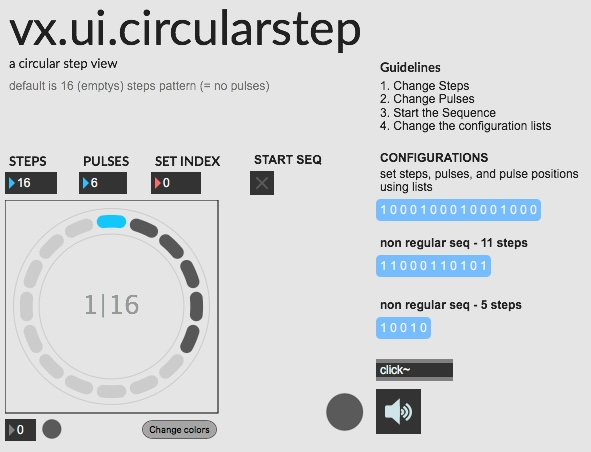
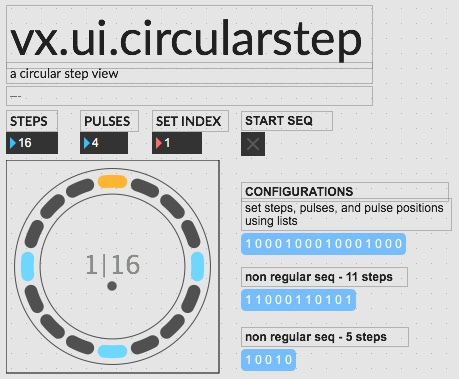
multiple fixes
[js]
- fix init (calling outlet before initialisation complete)
- fix index for steps
- remove debug info
[patcher]
- fix counter error (ensure 1 based index for everybody)
- minor errors fix
[screen]
- update

diff --git a/vx.ui.circularstep.js b/vx.ui.circularstep.js
@@ -314,7 +314,7 @@ p5.init();
 
 function setup () 
 {
-	setsteps(16);
+	steps(16);
 }
 
 function modulofix (x, m) {
@@ -444,6 +444,7 @@ function update_data(numsteps) {
 
 function getactivations()
 {
+	// post("send activations\n");
 	outlet(0, ['activations'].concat(activations));
 }
 
@@ -466,6 +467,7 @@ function getpulses ()
 {
 	var np=0;
 	activations.forEach(function (x) {if(x > 0) ++np;});
+	// post("send pulses\n");
 	outlet(0, "pulses", np);
 }
 
@@ -478,6 +480,7 @@ function steps (x)
 
 function getsteps ()
 {
+	// post("send getsteps\n");
 	outlet(0, "steps", activations.length);
 }
 
@@ -489,11 +492,13 @@ function setsteps (x)
 }
 
 // set the index and trigger list(index, activation at index) on outlet 1
+// 1-based index
 function setindex(n) 
 {
-	curIndex = n;
+	curIndex = n-1;//1-based index
 	update_data ();
-	outlet(1, curIndex, activations[curIndex]);
+	// post("send index\n");
+	outlet(1, [curIndex, activations[curIndex]]);
 }
 
 function list()
